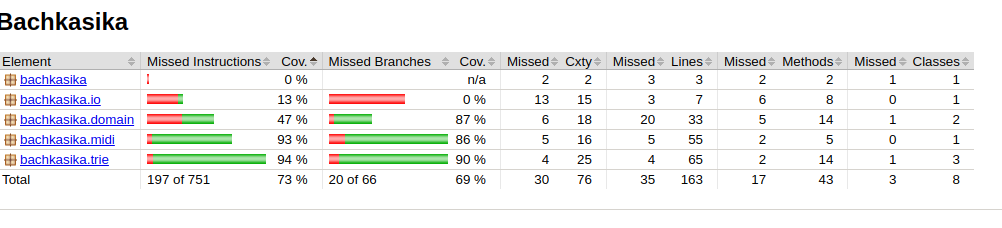
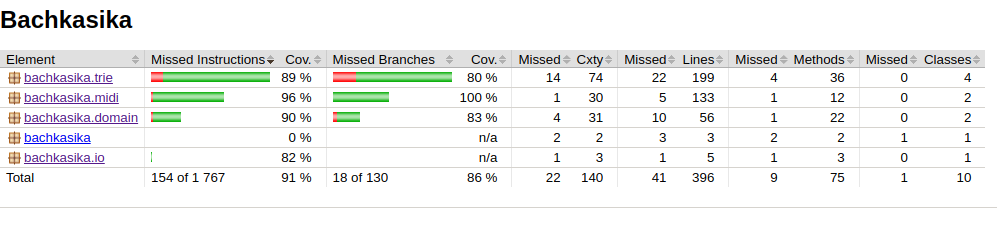
huge bug fix

Changed region(s): [[0.0, 0.2149, 0.995, 0.8289], [0.0, 0.8904, 1.0, 0.9211], [0.0, 0.0307, 0.1555, 0.1535]]

diff --git a/Bachkasika/src/test/java/Bachkasika/performance/BachkasikaPerformanceTest.java b/Bachkasika/src/test/java/Bachkasika/performance/BachkasikaPerformanceTest.java
@@ -11,6 +11,7 @@ import bachkasika.trie.MarkovChain;
 import bachkasika.trie.Trie;
 import java.io.File;
 import java.util.ArrayList;
+import java.util.Arrays;
 import java.util.Random;
 
 /**
@@ -28,8 +29,8 @@ public class BachkasikaPerformanceTest {
         MIDIWriter testWriter = new MIDIWriter("performancetest.mid");
         Random rnd = new Random();
         ArrayList<Note> randomNoteList = new ArrayList<>();
-        for (int i = 0; i < 300000; i++) {
-            Note n = new Note(i * 60, rnd.nextInt(50) + 35, 60, 60);
+        for (int i = 0; i < 100; i++) {
+            Note n = new Note(i * 60, rnd.nextInt(10) + 35, 60, 60);
             randomNoteList.add(n);
         }
         
@@ -57,17 +58,25 @@ public class BachkasikaPerformanceTest {
         System.out.println("MIDI:n parserointiin aikaa kului " + (stop - start) / 1000.0 + " sekuntia.");
         
         start = System.currentTimeMillis();
-        Trie trie = new Trie(8, 59);
+        Trie trie = new Trie(3, 59);
         trie.insertFromNoteList(randomNoteList);
         stop = System.currentTimeMillis();
         System.out.println("Trien rakentamiseen aikaa kului " + (stop - start) / 1000.0 + " sekuntia.");
 
         MarkovChain testMarkov = new MarkovChain(trie);
         start = System.currentTimeMillis();
-        testMarkov.createNoteListFromKeyChain(testMarkov.createKeyChain(randomNoteList.size()));
+        int[] markovArray = testMarkov.createKeyChain(randomNoteList.size());
+        ArrayList<Note> markov = testMarkov.createNoteListFromKeyChain(markovArray);
         stop = System.currentTimeMillis();
         System.out.println("Markovin ketjun rakentamiseen aikaa kului " + (stop - start) / 1000.0 + " sekuntia.");
         
+        System.out.println(Arrays.toString(markovArray));
+        int[] c = new int[randomNoteList.size()];
+        for (int i = 0; i< randomNoteList.size(); i++) {
+            c[i] = randomNoteList.get(i).getKey();
+        }
+        System.out.println(Arrays.toString(c));
+        System.out.println(Arrays.toString(trie.getRandomSequence()));
     }
     
     

diff --git a/Bachkasika/src/main/java/bachkasika/trie/TrieNode.java b/Bachkasika/src/main/java/bachkasika/trie/TrieNode.java
@@ -1,5 +1,6 @@
 package bachkasika.trie;
 
+import java.util.Arrays;
 import java.util.Random;
 
 /**
@@ -63,12 +64,12 @@ public class TrieNode {
         int nextChild;
         while (true) {
             nextChild = node.randomChild();
-            if (node.children != null)
+            if (node.children[nextChild] != null)
                 break;
         }
         sequence[depth] = nextChild;
         
-        return node.children[nextChild].fillSequence(depth + 1, sequence, node);
+        return node.children[nextChild].fillSequence(depth + 1, sequence, node.children[nextChild]);
     }
     
     
@@ -87,9 +88,9 @@ public class TrieNode {
             return sequence;
         }
         int i = 0;
-        TrieNode nextChild = null;
-        while (i < sequence.length && sequence[i] > 0) {
-            nextChild = this.getChildren()[sequence[i]];
+        TrieNode nextChild = this;
+        while (nextChild.getChildren()[sequence[i]] != null && i > 0) {
+            nextChild = nextChild.getChildren()[sequence[i]];
             i++;
         }
         return (this.fillSequence(i, sequence, nextChild));

diff --git a/Bachkasika/src/main/java/bachkasika/trie/Trie.java b/Bachkasika/src/main/java/bachkasika/trie/Trie.java
@@ -6,6 +6,7 @@ package bachkasika.trie;
 
 import bachkasika.domain.Note;
 import java.util.ArrayList;
+import java.util.Arrays;
 
 /**
  * @author hede
@@ -66,6 +67,7 @@ public class Trie {
     public ArrayList<Note> getFramedKeySequence(int[] keyChain) {        
         return this.frameRoot.fitKeysToFrame(keyChain, this.chainLength);
     }
+    
     /**
      * Metodi, joka etsii rakenteesta jatkumon annetulle sekvenssille.
      * @param sequence annettu sekvenssi
